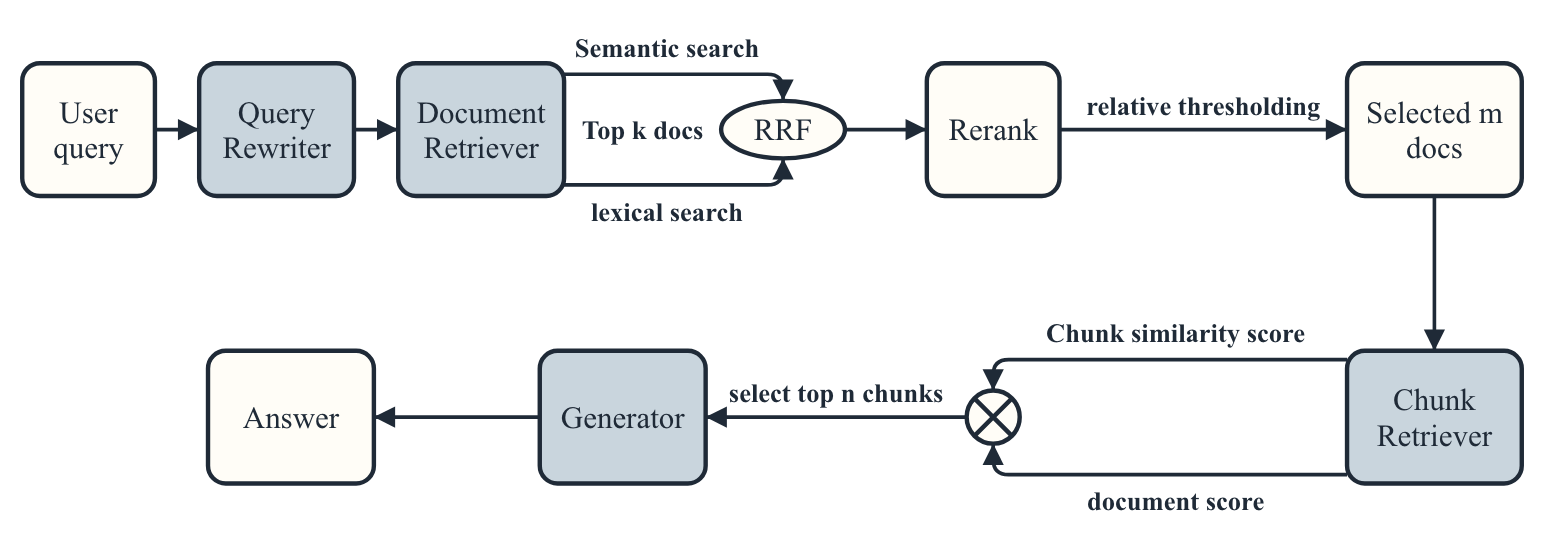
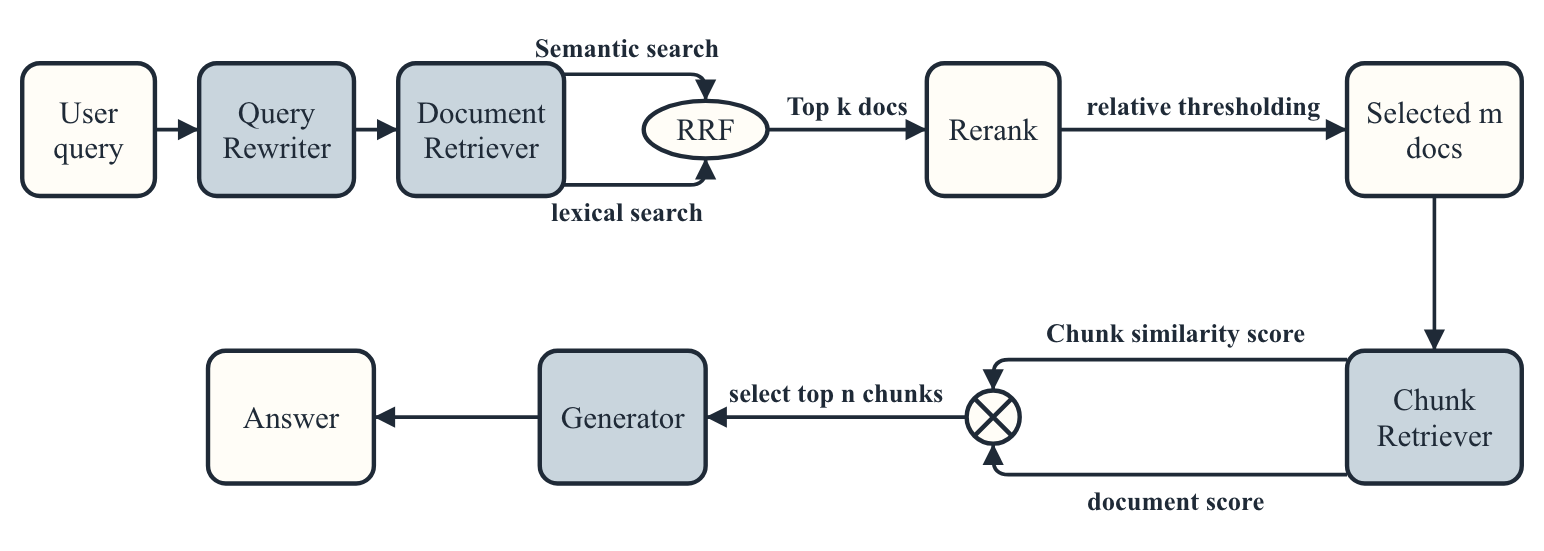
Move the top k label between RRF and Rerank in the diagram

Changed region(s): [[0.342, 0.0617, 0.5907, 0.3394], [0.342, 0.3702, 0.4974, 0.4011]]

diff --git a/frontend/app/components/Pipeline.tsx b/frontend/app/components/Pipeline.tsx
@@ -1,7 +1,7 @@
 // The pipeline, in the style of the original diagram: a wide layout for larger screens and a tall one for phones.
 
 const DESCRIPTION =
-  "A query rewriter turns the user query into a retrieval-optimized query and passes it to the document retriever. Semantic and lexical search each return their top k documents, which are fused with RRF and reranked, and relative thresholding selects m documents. The chunk retriever combines each chunk's similarity score with its document score, the top n chunks go to the generator, and the generator writes the answer.";
+  "A query rewriter turns the user query into a retrieval-optimized query and passes it to the document retriever. Semantic and lexical search are fused with RRF, the top k documents are reranked, and relative thresholding selects m documents. The chunk retriever combines each chunk's similarity score with its document score, the top n chunks go to the generator, and the generator writes the answer.";
 
 function Text({ x, y, lines, gap, className }: { x: number; y: number; lines: string[]; gap: number; className: string }) {
   const top = y - ((lines.length - 1) * gap) / 2;
@@ -63,9 +63,9 @@ function Wide() {
         paths={[
           "M122 100 H162",
           "M302 100 H342",
-          "M492 50 H676 Q690 50 690 64 V74",
-          "M492 150 H676 Q690 150 690 136 V126",
-          "M746 100 H820",
+          "M492 50 H606 Q620 50 620 64 V74",
+          "M492 150 H606 Q620 150 620 136 V126",
+          "M676 100 H820",
           "M940 100 H1200",
           "M1279 160 V300",
           "M1200 308 H894 Q880 308 880 322 V336",
@@ -78,8 +78,8 @@ function Wide() {
       <Box x={2} y={40} w={120} h={120} lines={["User", "query"]} {...box} />
       <Box x={162} y={40} w={140} h={120} lines={["Query", "Rewriter"]} shaded {...box} />
       <Box x={342} y={40} w={150} h={120} lines={["Document", "Retriever"]} shaded {...box} />
-      <ellipse className="shape" cx={690} cy={100} rx={56} ry={26} />
-      <Text x={690} y={100} lines={["RRF"]} gap={32} className="name" />
+      <ellipse className="shape" cx={620} cy={100} rx={56} ry={26} />
+      <Text x={620} y={100} lines={["RRF"]} gap={32} className="name" />
       <Box x={820} y={40} w={120} h={120} lines={["Rerank"]} {...box} />
       <Box x={1200} y={40} w={158} h={120} lines={["Selected m", "docs"]} {...box} />
       <Box x={1200} y={300} w={158} h={120} lines={["Chunk", "Retriever"]} shaded {...box} />
@@ -87,9 +87,9 @@ function Wide() {
       <Box x={470} y={300} w={150} h={120} lines={["Generator"]} shaded {...box} />
       <Box x={170} y={300} w={150} h={120} lines={["Answer"]} {...box} />
 
-      <Text x={585} y={26} lines={["Semantic search"]} {...label} />
-      <Text x={585} y={174} lines={["lexical search"]} {...label} />
-      <Text x={563} y={100} lines={["Top k docs"]} {...label} />
+      <Text x={549} y={26} lines={["Semantic search"]} {...label} />
+      <Text x={549} y={174} lines={["lexical search"]} {...label} />
+      <Text x={748} y={78} lines={["Top k docs"]} {...label} />
       <Text x={1070} y={78} lines={["relative thresholding"]} {...label} />
       <Text x={1045} y={284} lines={["Chunk similarity score"]} {...label} />
       <Text x={1045} y={436} lines={["document score"]} {...label} />
@@ -133,9 +133,9 @@ function Tall() {
       <Box x={106} y={726} w={130} h={44} lines={["Generator"]} shaded {...box} />
       <Box x={106} y={830} w={130} h={44} lines={["Answer"]} {...box} />
 
-      <Text x={110} y={146} lines={["Semantic search"]} {...label} />
-      <Text x={232} y={146} lines={["lexical search"]} {...label} />
-      <Text x={171} y={168} lines={["Top k docs"]} {...label} />
+      <Text x={110} y={160} lines={["Semantic search"]} {...label} />
+      <Text x={232} y={160} lines={["lexical search"]} {...label} />
+      <Text x={171} y={254} lines={["Top k docs"]} {...label} />
       <Text x={171} y={363} lines={["relative thresholding"]} {...label} />
       <Text x={110} y={596} lines={["Chunk similarity", "score"]} {...label} />
       <Text x={232} y={596} lines={["document score"]} {...label} />
